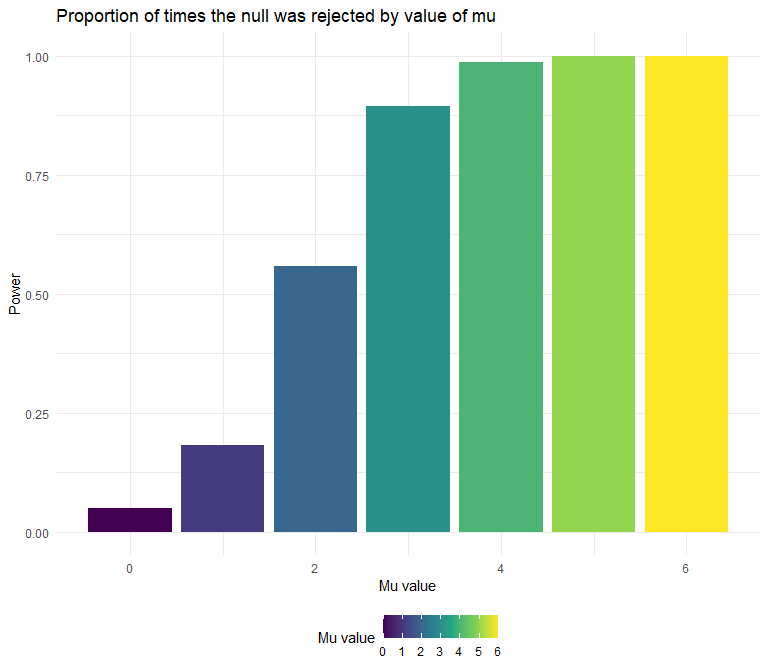
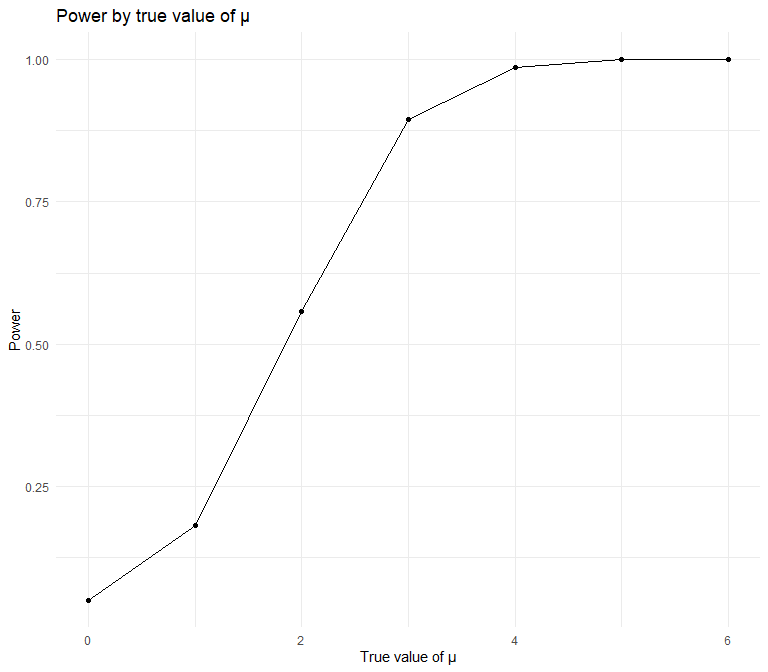
Q3 plots 2 and 3, and final changes

diff --git a/p8105_hw5_jmm2511.md b/p8105_hw5_jmm2511.md
@@ -1,7 +1,7 @@
 p8105_hw5_jmm2511
 ================
 Jessie Merrifield
-2023-11-13
+2023-11-15
 
 ``` r
 set.seed(1)
@@ -121,6 +121,9 @@ sim_mean_sd <- function(n=30, mu, sigma = 5) {
   
   return(data.frame(mu_hat = mu_hat$mu_hat, p_value = t_test_results$p.value))
 }
+
+#used return to output the values of interest
+#didn't input mu value to give more flexibility for mu input in future questions
 ```
 
 ``` r
@@ -153,6 +156,8 @@ sim_results_df_repeat =
   ) |> 
   unnest(estimate_df) |>
   select(mu_value, mu_hat, p_value)
+
+#used c(0,1,2,3,4,5,6) to avoid merging datasets to use for future questions
 ```
 
 Make a plot showing the proportion of times the null was rejected (the
@@ -163,13 +168,13 @@ Describe the association between effect size and power.
 q3_power_plot<- sim_results_df_repeat %>%
   group_by(mu_value) %>% 
   summarise(power=sum(p_value<0.05)/5000)%>% 
-    ggplot(aes(x=mu_value, y=power, fill=mu_value))+
-    geom_col()+
+    ggplot(aes(x=mu_value, y=power))+
+    geom_point()+
+    geom_line()+
   labs(
-    title = "Proportion of times the null was rejected by value of mu",
-    x = "Mu value",
-    y = "Power",
-    fill = "Mu value")
+    title = "Power by true value of μ",
+    x = "True value of μ",
+    y = "Power")
 
 
 q3_power_plot
@@ -177,11 +182,59 @@ q3_power_plot
 
 <img src="p8105_hw5_jmm2511_files/figure-gfm/unnamed-chunk-8-1.png" width="90%" />
 
+As the true value of μ increases, the power of the test increases.
+
 Make a plot showing the average estimate of μ^ on the y axis and the
 true value of μ on the x axis.
+
+``` r
+q3_average_mu_plot<- sim_results_df_repeat %>%
+  group_by(mu_value) %>% 
+  summarise(average_mu_hat=mean(mu_hat))%>% 
+    ggplot(aes(x=mu_value, y=average_mu_hat))+
+    geom_point()+
+  geom_line()+
+  labs(
+    title = "Average estimate of μ^ by true value of μ",
+    x = "True value of μ",
+    y = "Average estimate of μ^")
+
+q3_average_mu_plot
+```
+
+<img src="p8105_hw5_jmm2511_files/figure-gfm/unnamed-chunk-9-1.png" width="90%" />
+
+There is a strong positive linear relationship between the average
+estimate of μ^ and the true value of μ.
 
 Make a second plot (or overlay on the first) the average estimate of μ^
 only in samples for which the null was rejected on the y axis and the
 true value of μ on the x axis. Is the sample average of μ^ across tests
 for which the null is rejected approximately equal to the true value of
 μ ? Why or why not?
+
+``` r
+q3_mu_null_rejected_plot<- sim_results_df_repeat %>%
+  filter(p_value<0.05) %>% 
+  group_by(mu_value) %>% 
+  summarise(average_mu_hat=mean(mu_hat))%>% 
+    ggplot(aes(x=mu_value, y=average_mu_hat))+
+    geom_point()+
+  geom_line()+
+  labs(
+    title = "Average estimate of μ^ by true value of μ for tests in which the null was rejected",
+    x = "True value of μ",
+    y = "Average estimate of μ^")
+
+
+q3_mu_null_rejected_plot
+```
+
+<img src="p8105_hw5_jmm2511_files/figure-gfm/unnamed-chunk-10-1.png" width="90%" />
+
+For only samples in which the null was rejected, the sample average of
+μ^ is not approximately equal to the true value of μ. The difference in
+the sample average of μ^ and the true value of μ is especially apparent
+for the lower true values of μ–this is because the proportion of times
+the null was rejected is greater among lower true values of μ, which
+leads to a larger skew in the data for the sample average of μ^.
